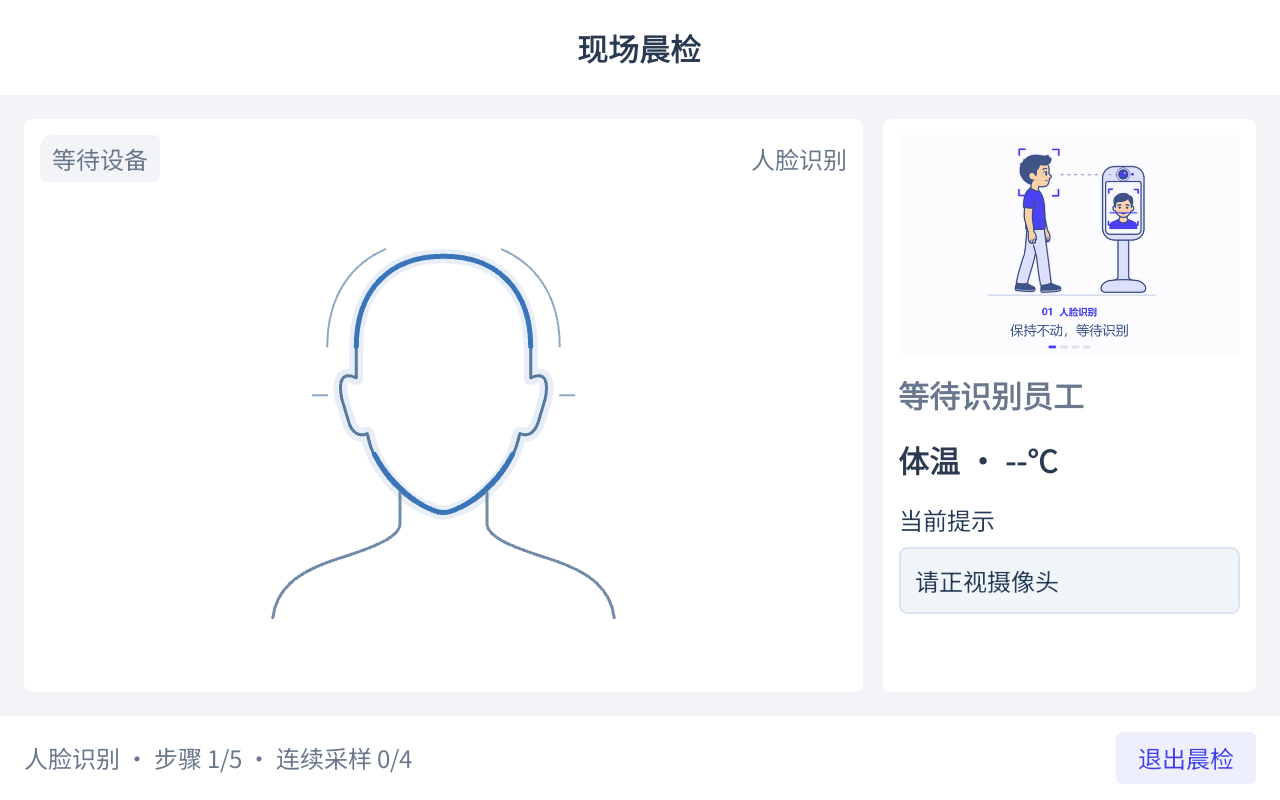
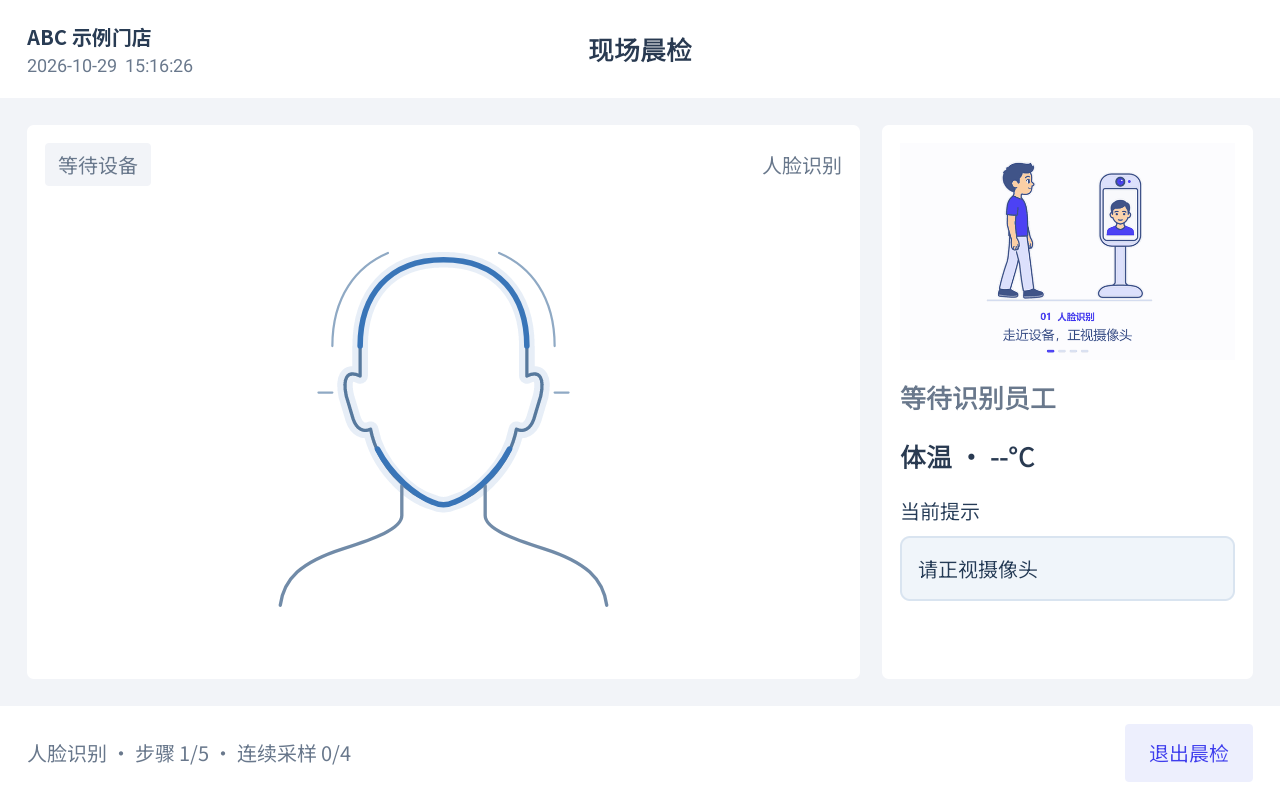
docs: 使用023D脱敏实拍展示主页与晨检页

diff --git a/docs/images/README.md b/docs/images/README.md
@@ -1,21 +1,29 @@
 # 界面示例图片
 
-中文和英文 README 都按“现场晨检 / 部门管理”双列表格展示以下图片，尺寸均为 1280 × 800。
+中文和英文 README 都按“主页 / 现场晨检”双列表格展示以下图片，尺寸均为 1280 × 800。
 
-| 文件 | 来源与处理 |
+两张图片于 2026-10-29 在 YF023D 实机采集，设备当时安装 App 0.1.0 和 SDK 2.0.0；没有为了截图安装或升级应用。
+
+| 文件 | 内容与脱敏处理 |
 | --- | --- |
-| `check-landscape.png` | 来自 `design/qa-check-ui-20261021/c106/check-inline-animation.png`，采集于 2026-10-21；仅隐藏左上角场所文字，其余界面未重绘。使用模拟 SDK 和无相机测试环境，没有采集真人照片或进行真实测温。 |
-| `departments-landscape.png` | 来自 `design/revision-20261015/c106/revision-DepartmentsActivity-130.png`，采集于 2026-10-15；保留原始界面，使用通用测试部门和人数。 |
+| `home-landscape.png` | 主页。场所替换为“ABC 示例门店”，公司替换为“ABC 示例公司”，设备序列号替换为 `SN DEMO023D001`。 |
+| `check-landscape.png` | 现场晨检的等待设备引导界面。场所替换为“ABC 示例门店”，没有真人照片或实际测温读数。 |
 
-图片不包含员工照片、健康证、激活码、账号或内部地址，用于说明历史测试界面，不作为当前版本的完整真机验收记录。两份 README 展示的都是中文 App 界面，英文 README 没有将其描述为英文界面。更新图片时同时修改中英文的日期和说明。
+上述标识均为虚构展示值，不对应真实公司、场所或设备。脱敏仅覆盖标识文字，保留原有布局、时间、版本及运行状态；未脱敏原图不随项目或交付包发布。
 
-## Interface image
+两份 README 都展示中文 App 界面。图片用于介绍页面，不作为 App 2.0.0 的完整真机验收记录。更新图片时同步修改中英文的来源与说明。
 
-The Chinese and English READMEs show the same two-column table: morning check / department management. Both images are 1280 × 800.
+## Interface images
 
-| File | Source and changes |
+The Chinese and English READMEs show the same two-column table: home / morning check. Both images are 1280 × 800.
+
+Both screenshots were captured on a YF023D on October 29, 2026, with App 0.1.0 and SDK 2.0.0 installed. No App installation or upgrade was performed for these screenshots.
+
+| File | Content and anonymization |
 | --- | --- |
-| `check-landscape.png` | From `design/qa-check-ui-20261021/c106/check-inline-animation.png`, captured on October 21, 2026. Only the workplace text in the upper-left corner was hidden. The test used a simulated SDK and no camera; no real face images or temperature readings were captured. |
-| `departments-landscape.png` | Unchanged from `design/revision-20261015/c106/revision-DepartmentsActivity-130.png`, captured on October 15, 2026, with generic test departments and counts. |
+| `home-landscape.png` | Home screen. The workplace is replaced with “ABC 示例门店”, the company with “ABC 示例公司”, and the device serial with `SN DEMO023D001`. |
+| `check-landscape.png` | Morning check guide while waiting for the device. The workplace is replaced with “ABC 示例门店”. No real-person photos or actual temperature readings appear. |
 
-The images contain no staff photos, health certificates, activation codes, accounts, or internal addresses. They illustrate historical test layouts and do not establish complete hardware acceptance for the current version. Both READMEs show Chinese App screens; the English README does not present them as English screens. Update both editions' dates and captions when replacing images.
+These identifiers are fictional display values and do not identify a real company, workplace, or device. Only identifier text was replaced; layout, timestamps, versions, and runtime state were preserved. Unredacted originals are excluded from the repository and distribution package.
+
+Both READMEs show Chinese App screens. The images illustrate pages and do not establish complete hardware acceptance for App 2.0.0. Update the source notes in both languages when replacing images.

diff --git a/README.en.md b/README.en.md
@@ -25,11 +25,11 @@ The complete App uses package `cc.huoyan.opensource.morningcheck`; the JAR's pub
 - Camera2 and USB UVC cameras, serial thermometers with indoor/outdoor/trigger modes, and serial/GPIO lighting.
 - Speech, font size, security password, automatic entry after boot, and local/LAN SDK connection and activation settings.
 
-| Morning check | Department management |
+| Home | Morning check |
 | --- | --- |
-| ![Morning check test screen in landscape](docs/images/check-landscape.png) | ![Department management test screen in landscape](docs/images/departments-landscape.png) |
+| ![Home screen in landscape](docs/images/home-landscape.png) | ![Morning check screen in landscape](docs/images/check-landscape.png) |
 
-These are historical Chinese test screens captured on October 21 and October 15, 2026, respectively. The check screen uses a simulated SDK with no camera or real-person capture, and its workplace name is hidden. The departments contain generic test data. Both editions show the same two-column layout; these images do not depict an English App interface or establish version 2.0.0 hardware acceptance. See [image details](docs/images/README.md). Landscape and portrait layouts are maintained in the [shared design source](design/huoyan-morningcheck.pen).
+These Chinese landscape screens were captured on a YF023D on October 29, 2026. Company, workplace, and device serial identifiers have been replaced with fictional sample values. The check screen shows the waiting-for-device guide with no real-person photos. Both READMEs use the same two-column layout. The device had App 0.1.0 and SDK 2.0.0 installed; these screenshots do not establish complete hardware acceptance for App 2.0.0. See [image details](docs/images/README.md). Landscape and portrait layouts are maintained in the [shared design source](design/huoyan-morningcheck.pen).
 
 ## Downloads and activation
 

diff --git a/README.md b/README.md
@@ -25,11 +25,11 @@
 - USB UVC 与 Camera2 相机接入、测温算法模式切换、串口和 GPIO 补光。
 - 语音、字体大小、安全密码与自动进入晨检设置，SDK 本机或局域网连接及激活选模。
 
-| 现场晨检 | 部门管理 |
+| 主页 | 现场晨检 |
 | --- | --- |
-| ![火眼晨检 App 现场晨检](docs/images/check-landscape.png) | ![火眼晨检 App 部门管理](docs/images/departments-landscape.png) |
+| ![火眼晨检 App 主页](docs/images/home-landscape.png) | ![火眼晨检 App 现场晨检](docs/images/check-landscape.png) |
 
-以上为 2026-10-21 和 2026-10-15 的中文横屏测试界面，场所信息已隐藏。晨检图使用模拟 SDK 和无相机测试环境，没有采集真人照片；部门图为通用测试数据。中英文 README 使用相同的双列排列，图片来源见[截图说明](docs/images/README.md)，当前界面以源码为准。横竖屏设计维护在[设计源文件](design/huoyan-morningcheck.pen)中。
+以上为 2026-10-29 在 YF023D 上采集的中文横屏界面，公司、场所和设备序列号已替换为虚构示例值；晨检页展示等待设备的引导画面，不含真人照片。中英文 README 使用相同的双列排列，截图时安装的 App 为 0.1.0、SDK 为 2.0.0，来源见[截图说明](docs/images/README.md)。横竖屏设计维护在[设计源文件](design/huoyan-morningcheck.pen)中。
 
 ## 下载与激活
 
